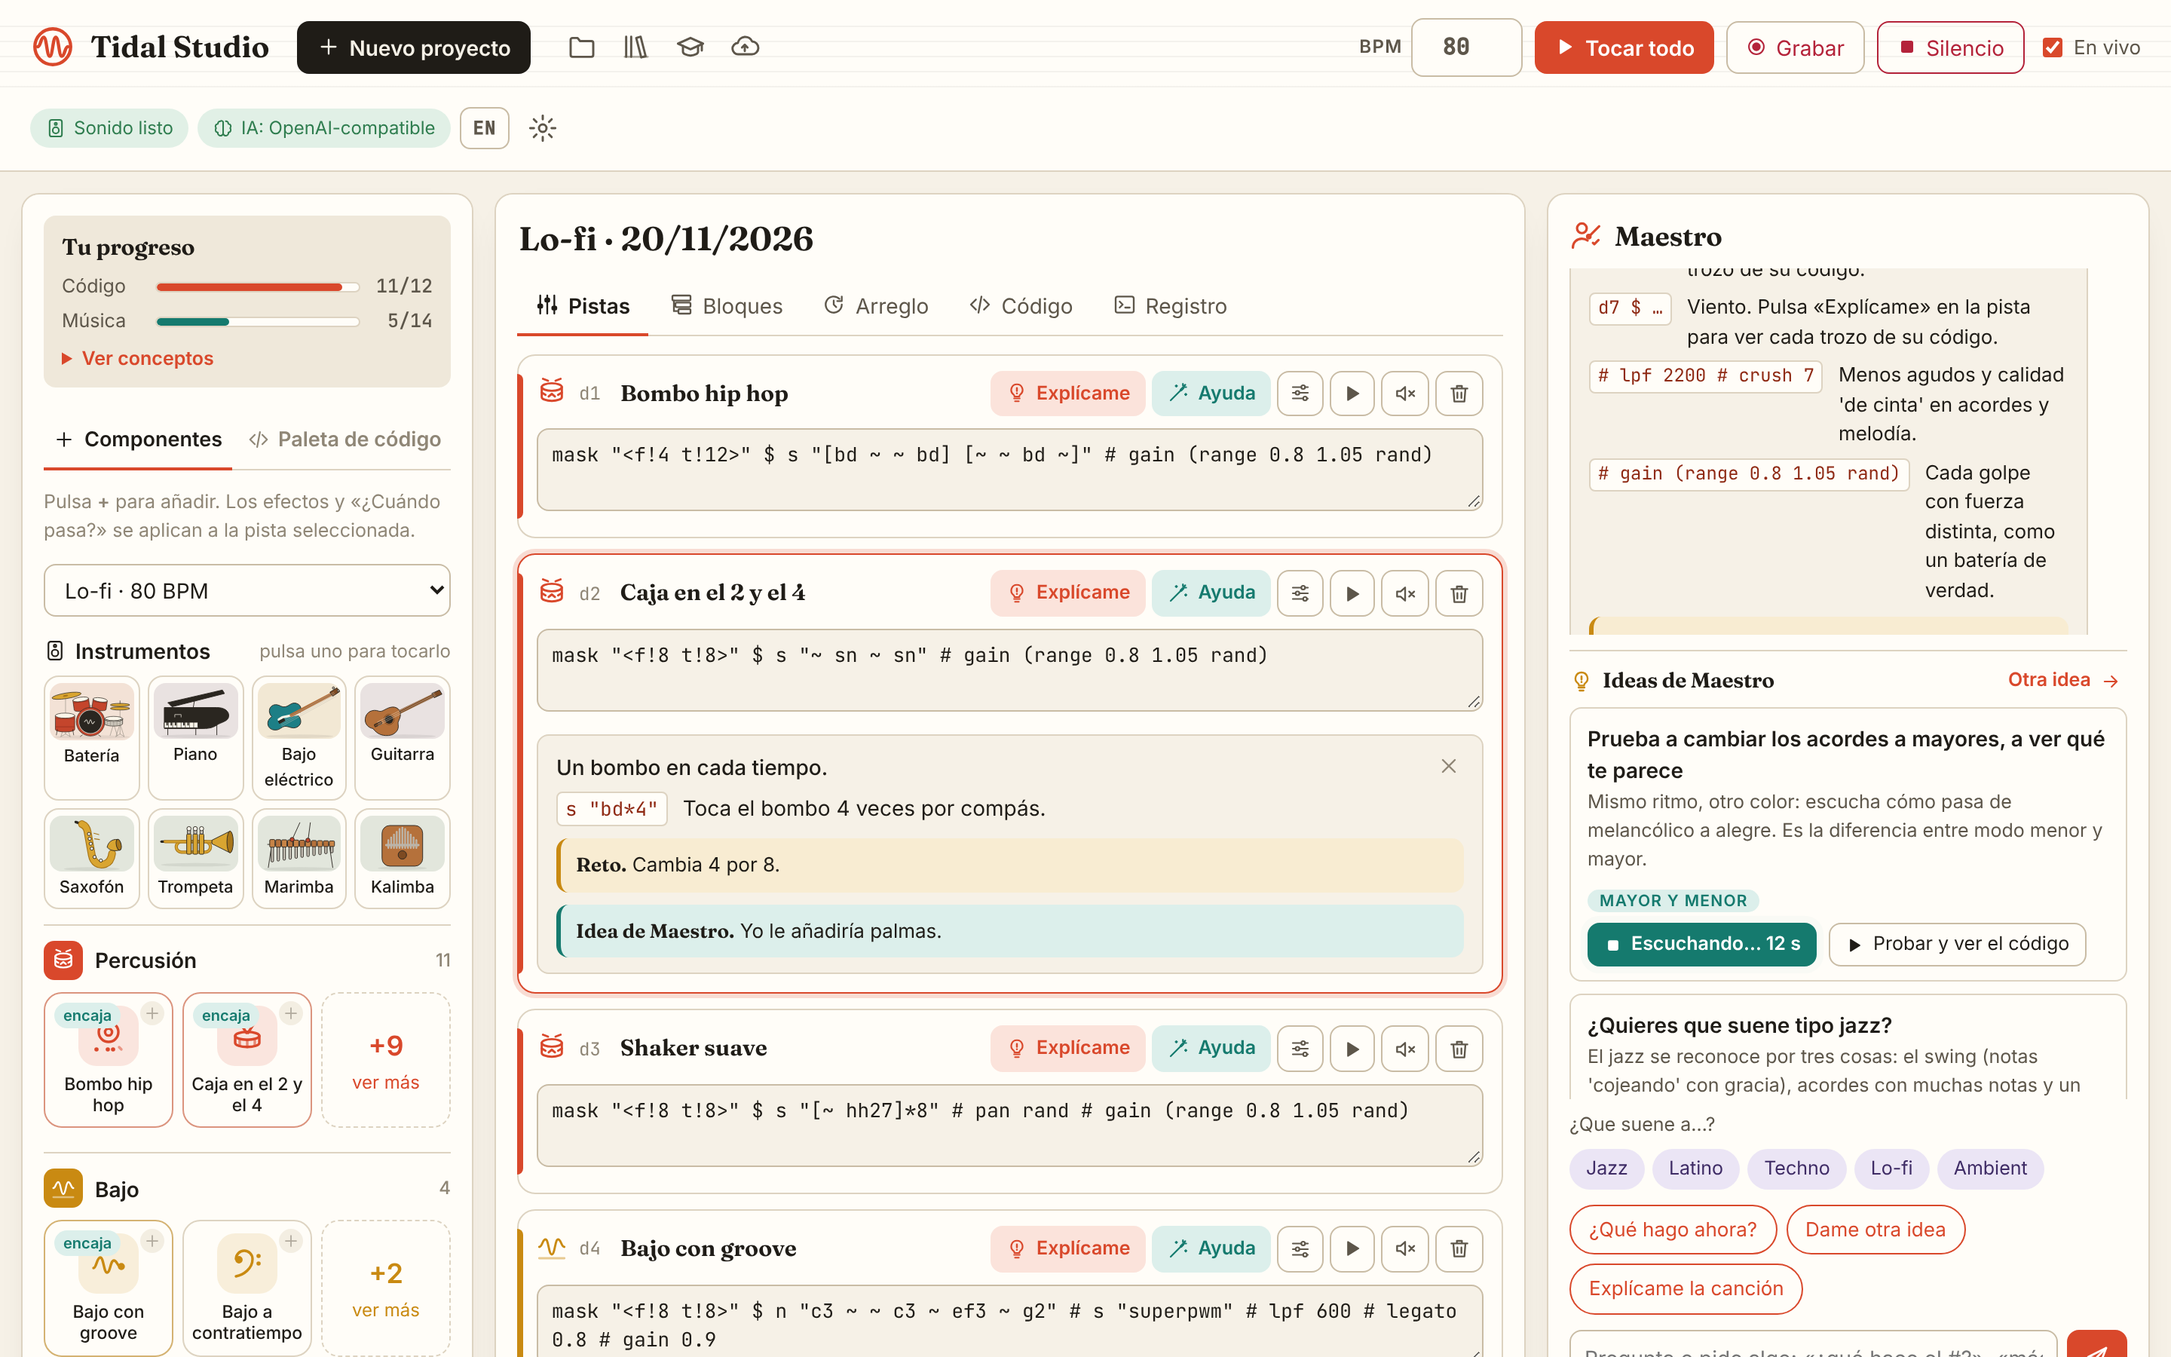
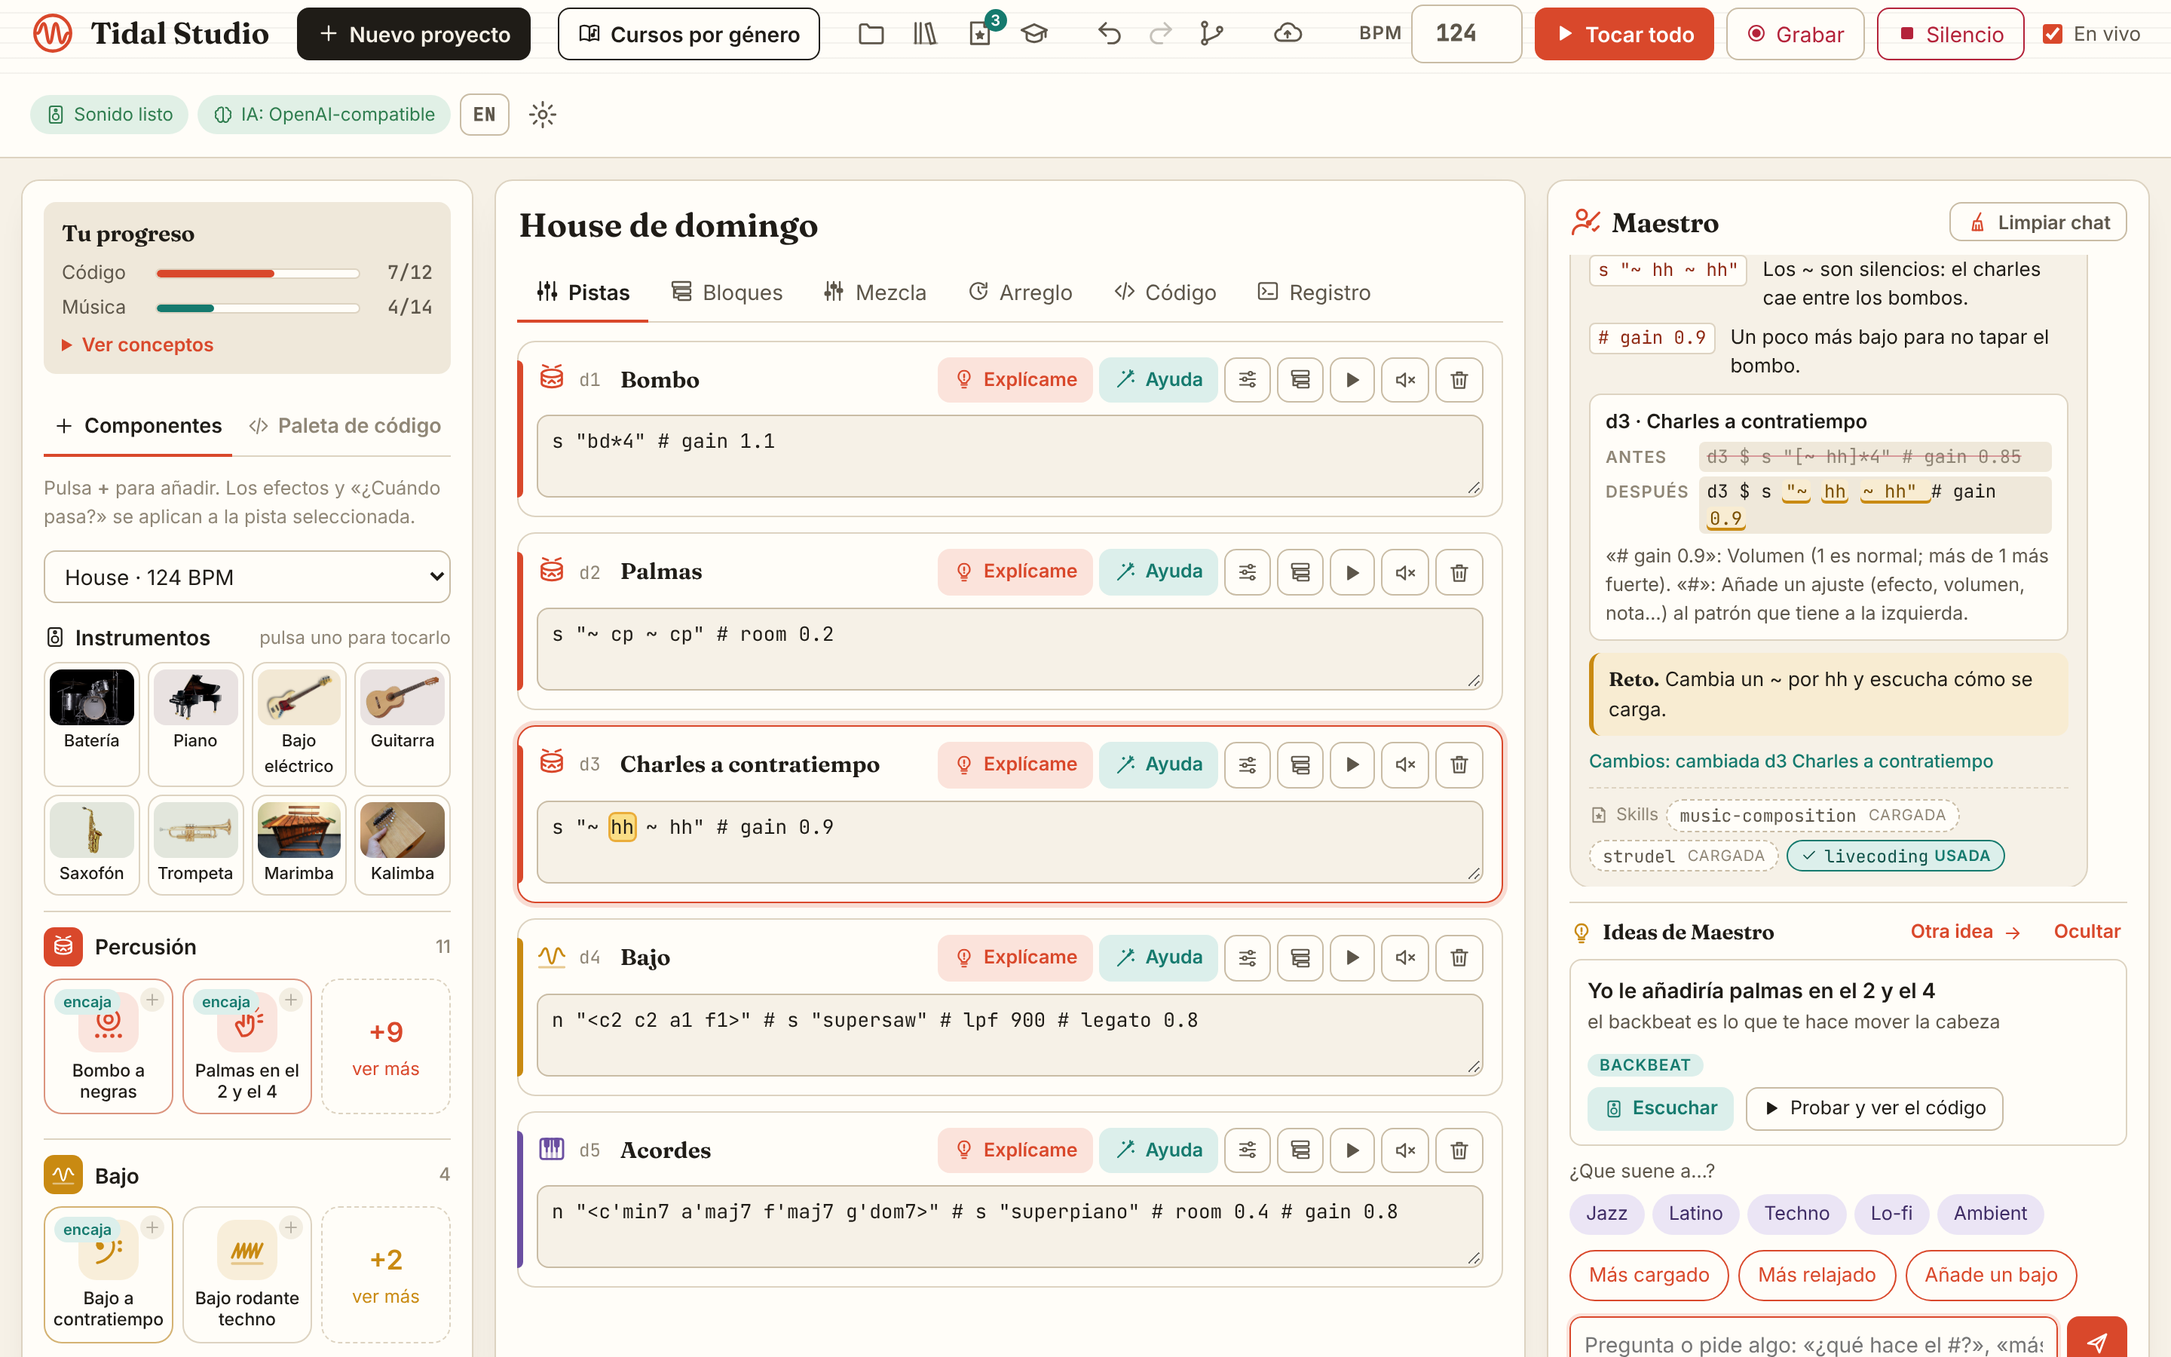
Landing page: sync with docs/ on main (4755f95)
Claude-Session: https://claude.ai/code/session_011rzsaSjb5DDSKxh4Jak1FZ

diff --git a/index.html b/index.html
@@ -252,6 +252,9 @@ footer { padding: 40px 0; text-align: center; color: var(--ink-3); font-size: 14
       <div><svg class="i" viewBox="0 0 24 24"><path d="M8 7l-5 5 5 5M16 7l5 5-5 5M13.5 4l-3 16"/></svg><h4 data-i="f4h">Code always visible</h4><p data-i="f4p">Every track is real TidalCycles code you can edit. No black boxes.</p></div>
       <div><svg class="i" viewBox="0 0 24 24"><path d="M3 17l5-5 4 4 8-9"/><path d="M15 7h5v5"/></svg><h4 data-i="f5h">Your progress</h4><p data-i="f5p">See which code and music concepts you have used, and which are left to discover.</p></div>
       <div><svg class="i" viewBox="0 0 24 24"><circle cx="12" cy="12" r="9"/><path d="M3 12h18M12 3c2.5 2.6 3.8 5.6 3.8 9s-1.3 6.4-3.8 9c-2.5-2.6-3.8-5.6-3.8-9S9.5 5.6 12 3z"/></svg><h4 data-i="f6h">English and Spanish</h4><p data-i="f6p">Switch language with one button. Maestro answers in the language you choose.</p></div>
+      <div><svg class="i" viewBox="0 0 24 24"><rect x="3" y="5" width="18" height="14" rx="2"/><path d="M7 10h3M12 10h5M7 14h6"/><rect x="11.5" y="8.5" width="6" height="3" rx="1" fill="currentColor" stroke="none" opacity=".35"/></svg><h4 data-i="f7h">See what's sounding</h4><p data-i="f7p">While it plays, the step that is sounding lights up in the code, the tracks and the blocks.</p></div>
+      <div><svg class="i" viewBox="0 0 24 24"><path d="M6 3v18M12 3v18M18 3v18"/><rect x="4" y="13" width="4" height="3" rx="1" fill="currentColor" stroke="none"/><rect x="10" y="7" width="4" height="3" rx="1" fill="currentColor" stroke="none"/><rect x="16" y="10" width="4" height="3" rx="1" fill="currentColor" stroke="none"/></svg><h4 data-i="f8h">Mixing desk</h4><p data-i="f8p">Volume, 3-band EQ, mute and solo for every track, plus a Master. Your code stays clean.</p></div>
+      <div><svg class="i" viewBox="0 0 24 24"><path d="M6 3h9l4 4v14H6z"/><path d="M15 3v4h4M9 12h7M9 16h5"/></svg><h4 data-i="f9h">Skills and plugins</h4><p data-i="f9p">Maestro loads expert music skills and shows which ones it used. Add more, or whole Claude plugins, from a GitHub link.</p></div>
     </div>
   </div>
 </section>
@@ -278,6 +281,16 @@ footer { padding: 40px 0; text-align: center; color: var(--ink-3); font-size: 14
     <div class="gal-tabs" role="tablist" id="gal-tabs"></div>
     <div class="frame"><div class="bar"><i></i><i></i><i></i><span>localhost:8765</span></div><img id="gal-img" alt="" width="2880" height="1800"></div>
     <p class="gal-cap" id="gal-cap"></p>
+  </div>
+</section>
+
+<section id="courses" style="padding-top: 20px">
+  <div class="wrap">
+    <div class="kicker" data-i="kc">Genre courses</div>
+    <h2 class="sec-title" data-i="tc">Build a merengue from scratch.</h2>
+    <p class="sec-lead" data-i="lc">Eleven courses, one genre each: merengue, salsa, cumbia, reggaeton, bossa nova, jazz, funk, house, techno, drum &amp; bass and lo-fi. Like a production class: the signature rhythm first, then bass, harmony, melody, arrangement and mix. Every step adds a piece that already sounds good, and Maestro explains why it sounds like that style.</p>
+    <div class="frame reveal"><div class="bar"><i></i><i></i><i></i><span>localhost:8765</span></div><img id="course-img" alt="" width="3000" height="1880"></div>
+    <div class="styles"><span>Merengue</span><span>Salsa</span><span>Cumbia</span><span>Reggaeton</span><span>Bossa nova</span><span>Jazz</span><span>Funk</span><span>House</span><span>Techno</span><span>Drum &amp; bass</span><span>Lo-fi</span></div>
   </div>
 </section>
 
@@ -364,9 +377,14 @@ const ES = {
   f4h: "Código siempre visible", f4p: "Cada pista es código TidalCycles real que puedes editar. Nada de cajas negras.",
   f5h: "Tu progreso", f5p: "Ve qué conceptos de código y de música ya has usado, y cuáles te quedan por descubrir.",
   f6h: "Español e inglés", f6p: "Cambia de idioma con un botón. Maestro responde en el idioma que elijas.",
+  f7h: "Ver lo que suena", f7p: "Mientras suena, el paso que está sonando se ilumina en el código, las pistas y los bloques.",
+  f8h: "Mesa de mezcla", f8p: "Volumen, ecualizador de 3 bandas, silencio y solo en cada pista, y un Master. Tu código queda limpio.",
+  f9h: "Skills y plugins", f9p: "Maestro carga skills musicales expertas y te enseña cuáles ha usado. Añade más, o plugins de Claude enteros, desde un enlace de GitHub.",
   k2: "Wizard de proyecto base", t2: "Tu primera canción en siete clics.",
   l2: "Pulsa opciones y escucha el resultado en vivo. Las que encajan con tu estilo vienen marcadas, y el último paso te enseña todo el código explicado.",
   k3: "Así se ve", t3: "Un estudio claro, como una partitura.",
+  kc: "Cursos por género", tc: "Construye un merengue desde cero.",
+  lc: "Once cursos, un género cada uno: merengue, salsa, cumbia, reggaeton, bossa nova, jazz, funk, house, techno, drum & bass y lo-fi. Como una clase de producción: primero el ritmo característico, luego bajo, armonía, melodía, arreglo y mezcla. Cada paso añade una pieza que ya suena bien, y Maestro te explica por qué suena a ese estilo.",
   k4: "Recetas de estilo", t4: "«¿Quieres que suene tipo jazz?»",
   l4: "Pulsa un estilo y tu canción se transforma. Verás el antes y el después con lo nuevo resaltado, y una explicación de cada cambio para que mañana lo hagas tú.",
   before: "Antes", after: "Después: jazz", latin: "Latino (bossa)",
@@ -463,6 +481,10 @@ wzList.addEventListener("click", (e) => { const b = e.target.closest("button"); 
 // ---------- Galería ----------
 const SHOTS = [
   { en: ["The studio", "studio", "Your tracks with their code, «Explain» on each one and Maestro's ideas with pre-listen."], es: ["El estudio", "estudio", "Tus pistas con su código, «Explícame» en cada una y las ideas del maestro con pre-escucha."] },
+  { en: ["See what's sounding", "live-highlight-tracks", "While the music plays, the step that is sounding lights up in every track (also in Blocks and Code)."], es: ["Ver lo que suena", "resaltado-pistas", "Mientras suena la música, el paso que está sonando se ilumina en cada pista (también en Bloques y Código)."] },
+  { en: ["Mix", "mixer", "A mixing desk: volume, 3-band EQ, mute and solo per track, and a Master for the whole song."], es: ["Mezcla", "mezcla", "Una mesa de mezcla: volumen, ecualizador de 3 bandas, silencio y solo por pista, y un Master para toda la canción."] },
+  { en: ["Skills", "skills-panel", "Maestro's skills: turn them on, always load one, read it or install another from GitHub."], es: ["Skills", "panel-skills", "Las skills de Maestro: actívalas, carga una siempre, léela o instala otra desde GitHub."] },
+  { en: ["Plugins", "plugins-panel", "Install a Claude Code plugin or marketplace from GitHub: its skills join Maestro's and its commands work in the chat."], es: ["Plugins", "panel-plugins", "Instala un plugin o marketplace de Claude Code desde GitHub: sus skills se suman a las de Maestro y sus comandos funcionan en el chat."] },
   { en: ["Code help", "code-help", "Edited a track and it doesn't work? Maestro finds the problem, shows the fix and lets you listen first."], es: ["Ayuda con el código", "ayuda-codigo", "¿Has editado una pista y no va? Maestro encuentra el problema, te enseña el arreglo y te deja escucharlo antes."] },
   { en: ["Code palette", "code-palette", "Tidal blocks organized by goal and level. Click one and Maestro applies and explains it."], es: ["Paleta de código", "paleta-codigo", "Bloques de Tidal organizados por objetivo y nivel. Pulsas uno y Maestro lo aplica y te lo explica."] },
   { en: ["Tutorial", "tutorial", "An interactive tour: Maestro lights up each part and waits for you to try it."], es: ["Tutorial", "tutorial", "Un recorrido interactivo: Maestro ilumina cada parte y espera a que la pruebes."] },
@@ -518,6 +540,7 @@ function applyLang() {
 }
 langBtn.onclick = () => { lang = lang === "es" ? "en" : "es"; try { localStorage.setItem("ts-site-lang", lang); } catch {} applyLang(); };
 applyLang();
+{ const ci = document.getElementById("course-img"); ci.src = shotPath(lang === "es" ? "curso-paso" : "course-step"); ci.alt = lang === "es" ? "Curso de merengue paso a paso" : "Merengue course, step by step"; }
 [...SHOTS, ...WZ].forEach((s) => { const p = new Image(); p.src = shotPath((lang === "es" ? s.es : s.en)[1]); });
 
 // ---------- Onda decorativa y aparición ----------

diff --git a/COURSES.md b/COURSES.md
@@ -1,0 +1,101 @@
+# Genre courses · build a song from scratch
+
+**English** · Spanish text lives in the app itself (switch with the ES/EN button).
+
+Open **Genre courses** in the top bar. Each course builds one complete song in one genre, the way a production class
+would: the signature rhythm first, then bass, harmony, melody, arrangement (16 bars, written as `mask`) and mix
+(the Mix tab's dB and EQ). Every step adds tracks that already sound good, Maestro explains the musical *why* and the
+code piece by piece, and each step ends with a small challenge. «Hear the result» on each course card plays the
+finished song for a few bars before you start.
+
+## How the code was checked
+
+- Every track in every course (66 tracks) was compiled and evaluated with the real TidalCycles
+  pattern library (tidal-core 1.10.0): it type-checks, the mini-notation parses, and it produces events.
+- Every sample name and index exists in [Dirt-Samples](https://github.com/tidalcycles/Dirt-Samples) (for example
+  `drumtraks:0` is a cabasa, `808:2` claves, `808:4` maracas, `808hc/808mc/808lc` congas, `drumtraks:7` a ride).
+  Pitched parts use the studio's synths (superpiano, superpwm, supersaw, superhammond, supertrumpet, supersquare,
+  sawtooth, triangle) or the `gtr` sample pitched with `note`.
+- The code in the challenges was compiled the same way.
+
+## Courses
+
+| Course | Origin | BPM | Key / progression | Steps | You learn |
+|---|---|---|---|---|---|
+| Merengue | Dominican Republic | 136 | C major · I–IV–V7–I | The güira: the engine → Tambora and kick → The bass that jumps ahead → Off-beat piano → The horn mambo → Arrangement: intro, merengue and mambo → Mix: let everything be heard | Güira and tambora, Anticipated bass, Horn mambo |
+| Salsa | Cuba · Puerto Rico · New York | 180 | C major · I–IV–V–IV | The 2-3 clave → Congas and cowbell → The bass tumbao → The piano montuno → The horns → Arrangement: intro, montuno and mambo → Orchestra mix | 2-3 clave, Tumbao, Montuno |
+| Cumbia | Colombia | 96 | A minor · i–iv–V7–i | The guacharaca → Llamador and tambora → Root-and-fifth bass → The off-beat organ → The melody → Arrangement → Mix | Off-beat, Root and fifth, Harmonic minor |
+| Reggaeton | Puerto Rico · Panama | 92 | A minor · i–VI–III–VII | The kick → The dembow snare → 808 bass in tresillo → Chord pad → The hook with echo → Arrangement: intro and drop → Mix | Dembow, Tresillo, Tempo-synced delay |
+| Bossa nova | Brazil | 130 | C major · Imaj7–vi7–ii7–V7 | Sixteenth-note shaker → Surdo and rimshot → Bass → The guitar (batida) → Flute melody → Arrangement → Intimate mix | Seventh chords, Batida, Syncopation |
+| Jazz (swing) | United States | 140 | C major · ii–V–I–VI | The ride and swing → Hi-hat on 2 and 4 → Walking bass → Charleston piano → The head: muted trumpet → Arrangement: intro, head, ending → Jazz club mix | Swing, Walking bass, ii–V–I |
+| Funk | United States | 104 | E dorian · Em7–A7 | Syncopated kick → Snare with ghost notes and hi-hats → Octave-jumping bass → Scratchy guitar → Horn stabs → Arrangement → Mix | Ghost notes, Sixteenth notes, Two-chord vamp |
+| House | Chicago | 124 | A minor · im7–VImaj7–ivm7–vm7 | Four-on-the-floor → Claps and hi-hats → Off-beat bass → Piano chords → Filtered arpeggio → DJ arrangement → Club mix | Four-on-the-floor, Arpeggios, Filter modulation |
+| Techno | Detroit · Berlin | 130 | A minor (a single chord) | The kick → Hats and claps → Euclidean percussion → Rolling bass → Acid line → Dark pad → Arrangement with a breakdown → Warehouse mix | Euclidean rhythms, Cut groups, Acid line |
+| Drum & bass | United Kingdom | 174 | D minor · i–VI–III–VII | The two-step → Hats and break → Long bass → Pad → Liquid piano → Arrangement: intro and drop → Mix | Two-step, Breakbeat, Randomness |
+| Lo-fi hip hop | The internet | 80 | C major · IVmaj7–iii7–ii7–Imaj7 | Boom-bap drums → Swung hi-hats → Piano chords → Soft bass → A melody that comes and goes → Arrangement → Old-tape mix | Swing, Boom-bap, Random variation |
+
+## Sources and licensing
+
+The rhythms taught here are traditional patterns (güira and tambora cells, son clave, tumbao, dembow, bossa surdo and
+rim, swing ride, two-step…). A rhythm or chord progression has no author, so every pattern, bass line, melody and
+text in the courses was written from scratch for Tidal Studio. Nothing was copied from tutorials, songs or other
+live-coding examples. Strudel's own examples are AGPL and its contributed tunes carry separate terms, so none of them
+were used.
+
+These pages were used as references and are linked from each course as further reading:
+
+**Merengue**
+- [Wikipedia · Merengue music](https://en.wikipedia.org/wiki/Merengue_music)
+- [Wikipedia · Güira](https://en.wikipedia.org/wiki/G%C3%BCira)
+- [Soundbrenner · The merengue rhythm](https://www.soundbrenner.com/blogs/articles/merengue-rhythm)
+- [Clark College · Latin percussion clinic (PDF)](https://www.clark.edu/about/arts-events/music/jazz_festival/documents/latinpercussionclinicfernandez2020.pdf)
+
+**Salsa**
+- [Wikipedia · Clave (rhythm)](https://en.wikipedia.org/wiki/Clave_(rhythm))
+- [Wikipedia · Tumbao](https://en.wikipedia.org/wiki/Tumbao)
+- [Piano With Jonny · Piano montunos](https://pianowithjonny.com/piano-lessons/piano-montunos-the-complete-guide/)
+- [Soundbrenner · Salsa rhythm](https://www.soundbrenner.com/blogs/articles/salsa-rhythm)
+
+**Cumbia**
+- [Wikipedia · Cumbia (Colombia)](https://en.wikipedia.org/wiki/Cumbia_(Colombia))
+- [Reverb · How to play the cumbia style](https://reverb.com/news/latin-beats-how-to-play-the-cumbia-style)
+
+**Reggaeton**
+- [Wikipedia · Dembow](https://en.wikipedia.org/wiki/Dembow)
+- [MusicRadar · How to make a reggaeton beat](https://www.musicradar.com/news/beat-building-how-to-produce-a-reggaeton-beat)
+- [Native Instruments · Reggaeton](https://www.native-instruments.com/en/blogs/blog/reggaeton)
+- [Berklee · Dembow explained](https://www.berklee.edu/node/2559651)
+
+**Bossa nova**
+- [Wikipedia · Bossa nova](https://en.wikipedia.org/wiki/Bossa_nova)
+- [Soundbrenner · Bossa nova rhythm](https://www.soundbrenner.com/blogs/articles/bossa-nova-rhythm)
+- [MusicRadar · Programming bossa nova beats](https://www.musicradar.com/how-to/how-to-program-and-transfer-authentic-bossa-nova-beats)
+
+**Jazz (swing)**
+- [Wikipedia · Swing (jazz performance style)](https://en.wikipedia.org/wiki/Swing_(jazz_performance_style))
+- [Wikipedia · Walking bass](https://en.wikipedia.org/wiki/Walking_bass)
+- [Wikipedia · ii–V–I progression](https://en.wikipedia.org/wiki/Ii%E2%80%93V%E2%80%93I_progression)
+
+**Funk**
+- [Wikipedia · Funk](https://en.wikipedia.org/wiki/Funk)
+- [Wikipedia · Ghost note](https://en.wikipedia.org/wiki/Ghost_note)
+
+**House**
+- [Wikipedia · House music](https://en.wikipedia.org/wiki/House_music)
+- [Production Music Live · House drum patterns](https://www.productionmusiclive.com/blogs/news/how-to-make-house-drum-patterns-beginners)
+
+**Techno**
+- [Ableton · Generating techno drum patterns](https://www.ableton.com/en/blog/generating-techno-drum-patterns/)
+- [Wikipedia · Euclidean rhythm](https://en.wikipedia.org/wiki/Euclidean_rhythm)
+- [Wikipedia · Techno](https://en.wikipedia.org/wiki/Techno)
+
+**Drum & bass**
+- [Native Instruments · Drum and bass](https://www.native-instruments.com/en/blogs/blog/drum-and-bass)
+- [MusicRadar · Jungle and DnB grooves](https://www.musicradar.com/how-to/how-to-program-6-different-jungle-and-drum-n-bass-grooves)
+- [EDMProd · How to make drum & bass](https://www.edmprod.com/how-to-make-drum-and-bass/)
+
+**Lo-fi hip hop**
+- [Wikipedia · Lo-fi music](https://en.wikipedia.org/wiki/Lo-fi_music)
+- [Ableton · Make your first beat](https://www.ableton.com/en/blog/create-your-first-track-in-ableton-live/)
+
+General: [TidalCycles documentation](https://tidalcycles.org/docs/) · [Dirt-Samples](https://github.com/tidalcycles/Dirt-Samples).
